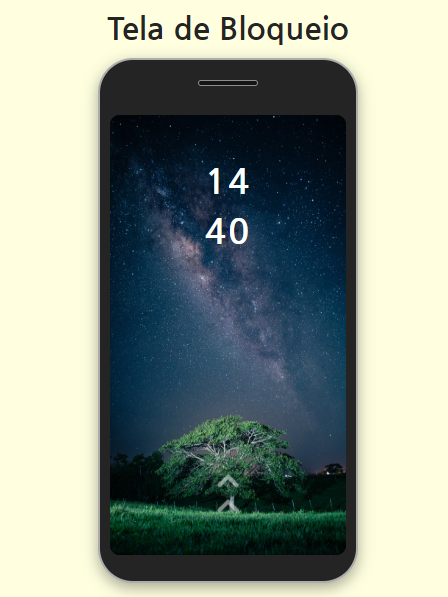
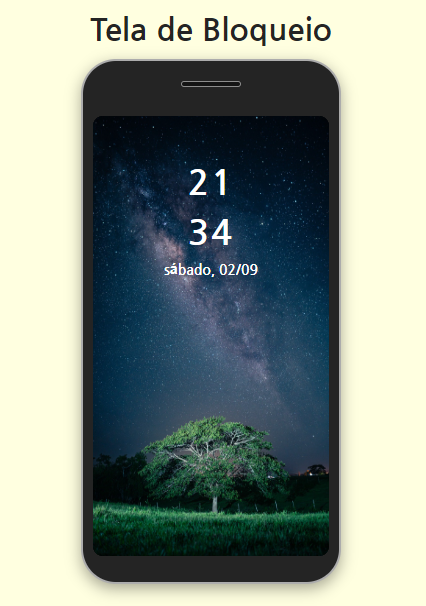
correção nome MostrarDataEHora e imagem readme

diff --git a/src/js/index.js b/src/js/index.js
@@ -14,6 +14,7 @@ let btnVoltarOuExcluir = document.querySelector('button[value="voltar"]')
 let iconeRolar = document.querySelector('.icone-rolar')
 
 iconeRolar.addEventListener('scroll', function (){
+    // console.log(iconeRolar)
     const telaBloqueio = document.querySelector('.tela-bloqueio')
     telaBloqueio.classList.remove('bloquear')
     telaBloqueio.classList.add('desbloquear')

diff --git a/src/js/mostrarDataEHora.js b/src/js/mostrarDataEHora.js
@@ -12,5 +12,5 @@ export function mostrarDataEHora(){
     elementoMinuto.innerHTML = minuto
     let diaDoMes = data.getDate().toString().padStart(2,'0')
     elementoDia.innerHTML = `${semana[diaSemana]}, ${diaDoMes}/${mesDoAno}`
-    setTimeout(mostrarHora, 1000)
+    setTimeout(mostrarDataEHora, 1000)
 }
